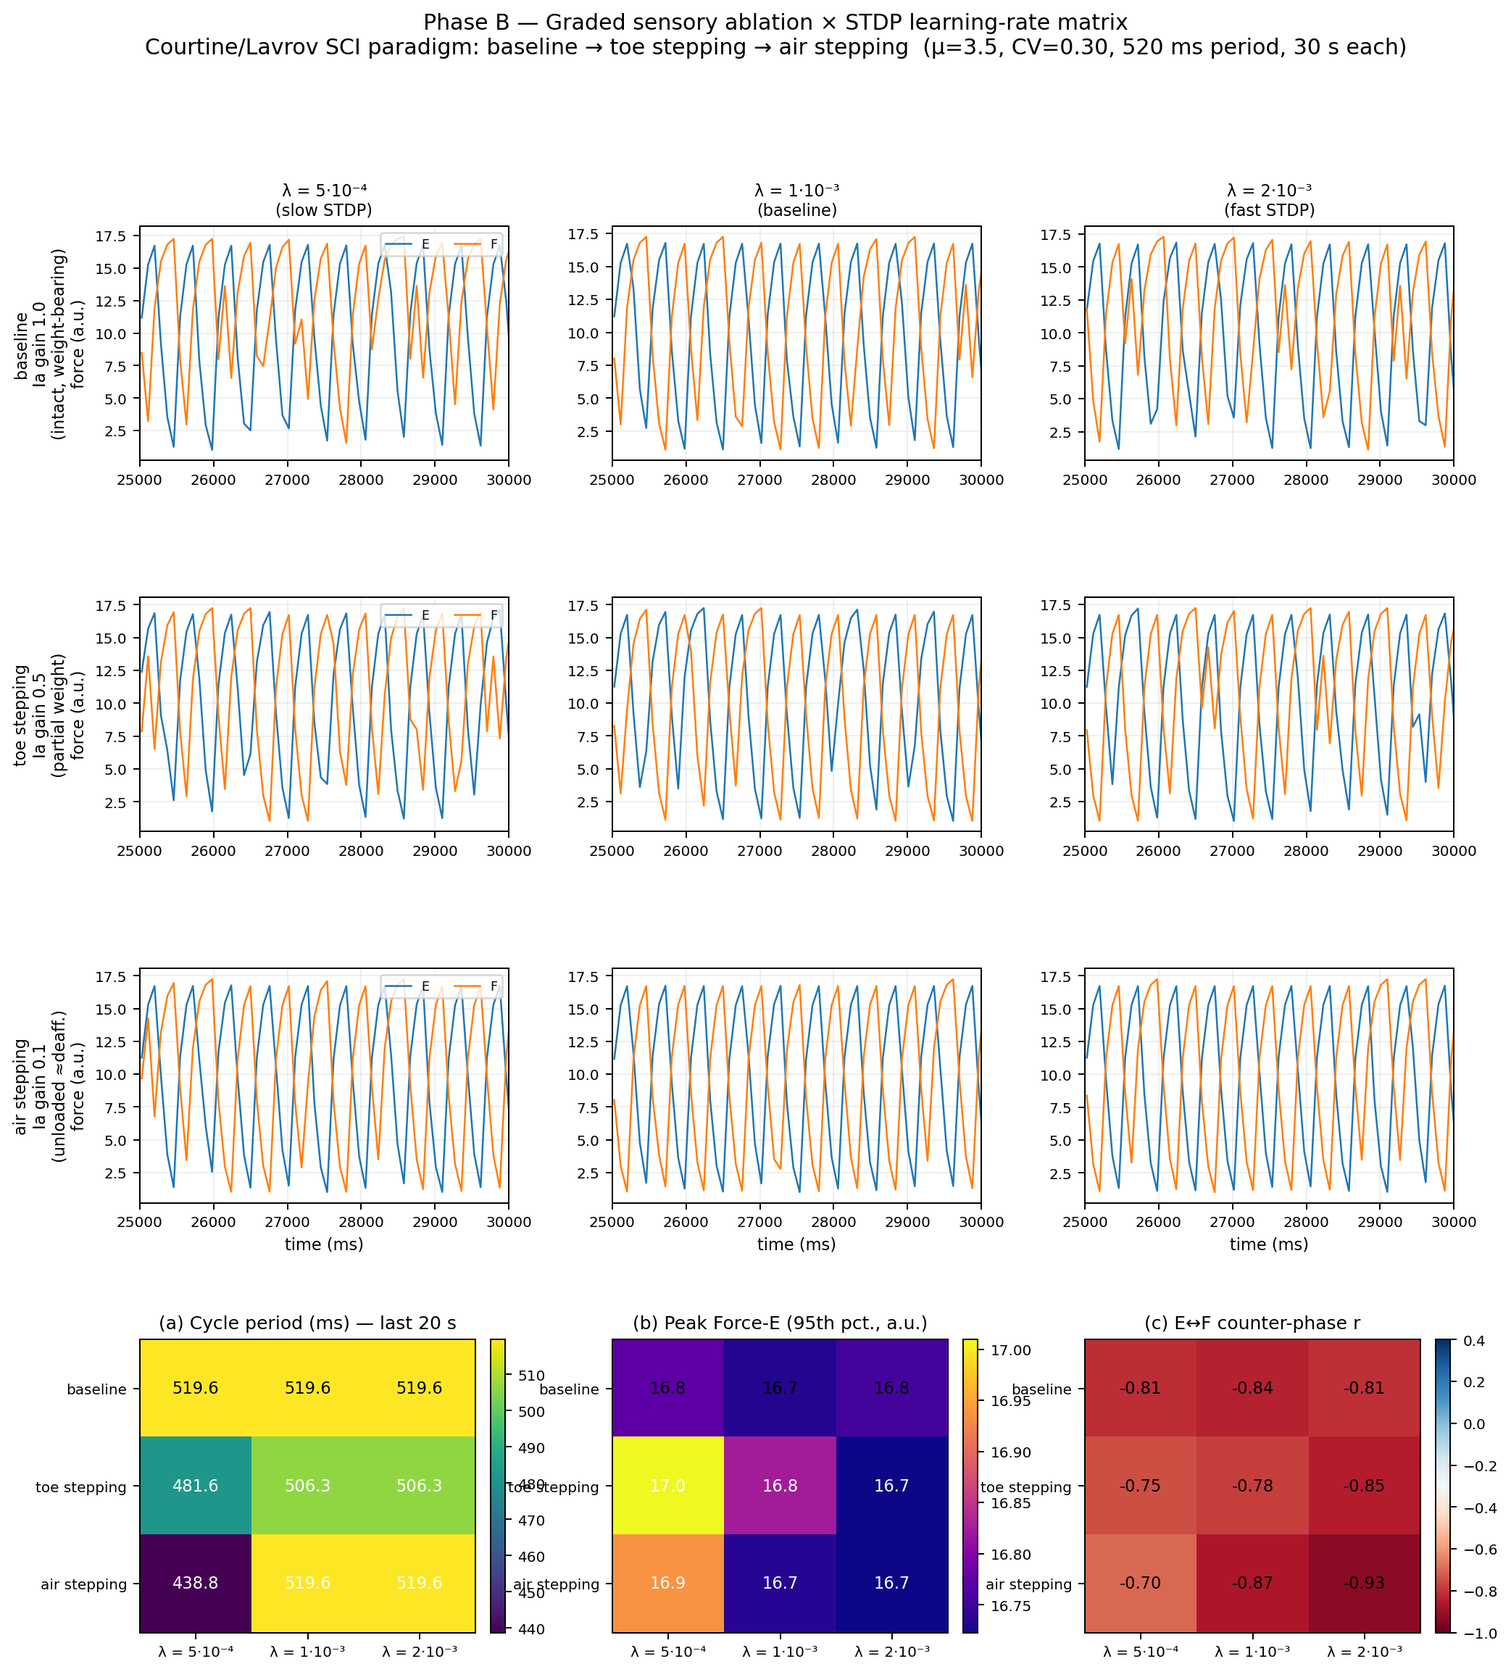
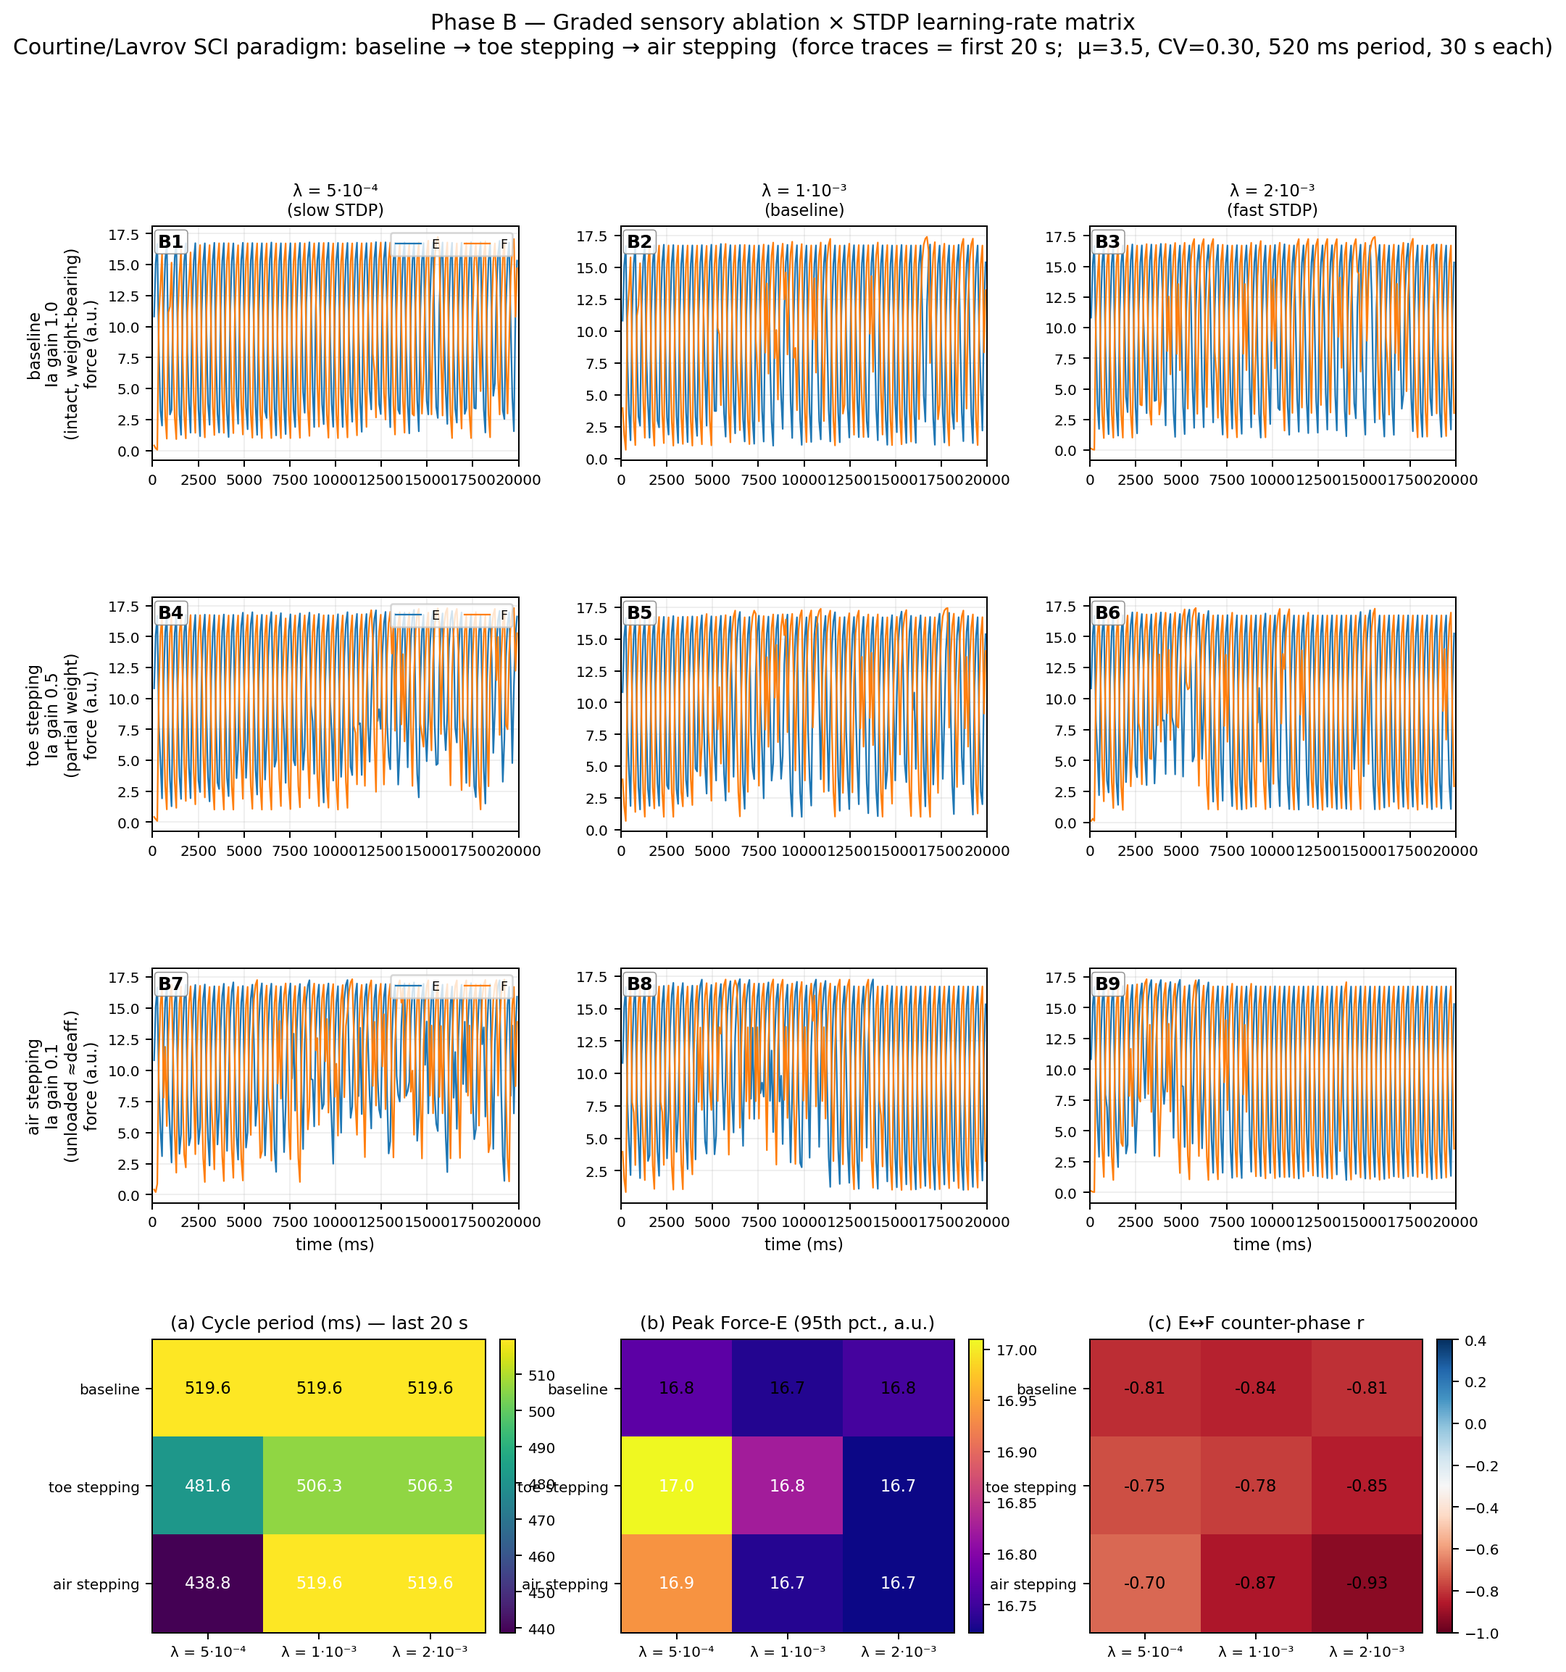
Phase A+B figures: panel indices, first-window default, λ auto-discovery
Addresses the saturation-masks-λ problem: weights converge within ~20 s,
so the previous converged-tail trace windows showed no λ difference.

Both cpg_speed_stdp_figure.py and cpg_ablation_graded_figure.py now:
 - tag each force-trace panel with a panel index (A1..A9 / B1..B9);
 - default to the FIRST window (--trace-window first, --trace-window-ms
   20000) so the STDP-rate-dependent self-organisation is visible;
 - auto-discover the λ tags from filenames and sort ascending by value,
   so the figures adapt to any λ set (3, 4, 5, ... values) without code
   edits. New helpers _lambda_tag_to_value / _lambda_label render
   'lam1em4' -> 1e-4 -> 'λ = 1·10⁻⁴'. Figure width scales with n_cols.

run_speed_stdp.sh: widen Phase A λ from {5e-4, 1e-3, 2e-3} (all saturate
within ~20 s) to the decade span {1e-4, 1e-3, 1e-2}. Slow λ now converges
~75 s (transient visible across the whole 120 s run); baseline ~7 s; fast
~1 s. Header documents the rationale and the bio-plausibility caveat
(1e-2 is above the strict cortical range, probes accelerated learning).

paper/sections/results.tex: fig5 caption updated — Rows 1-3 are now
panels A1-A9 over the first 20 s (self-organisation window).

Figures regenerated from existing data to confirm rendering; they will
be regenerated again after the wider-λ MN5 re-run lands.

diff --git a/cpg_speed_stdp_figure.py b/cpg_speed_stdp_figure.py
@@ -47,13 +47,30 @@ SPEED_LABEL = {
 }
 SPEED_PERIOD_MS = {"06cms": 1200, "13_5cms": 520, "21cms": 350}
 
-LAMBDA_ORDER = ["lam5em4", "lam1em3", "lam2em3"]
-LAMBDA_LABEL = {
-    "lam5em4": "λ = 5·10⁻⁴\n(slow STDP)",
-    "lam1em3": "λ = 1·10⁻³\n(baseline)",
-    "lam2em3": "λ = 2·10⁻³\n(fast STDP)",
-}
-LAMBDA_VAL = {"lam5em4": 5e-4, "lam1em3": 1e-3, "lam2em3": 2e-3}
+# Lambda tags are auto-discovered from filenames (see _resolve_files). The
+# helpers below convert a tag such as "lam1em4" → value 1e-4 and a display
+# label, so the figure adapts to whatever λ set was actually run.
+_SUPERSCRIPT = {"-": "⁻", "0": "⁰", "1": "¹", "2": "²", "3": "³",
+                "4": "⁴", "5": "⁵", "6": "⁶", "7": "⁷", "8": "⁸", "9": "⁹"}
+
+
+def _lambda_tag_to_value(tag: str) -> float:
+    """'lam1em4' → 1e-4 ;  'lam5em4' → 5e-4 ;  'lam2em3' → 2e-3."""
+    m = re.match(r"lam(\d+)em(\d+)", tag)
+    if not m:
+        return float("nan")
+    return float(m.group(1)) * (10.0 ** (-int(m.group(2))))
+
+
+def _lambda_label(tag: str, role: str = "") -> str:
+    """Render 'lam1em4' → 'λ = 1·10⁻⁴\\n(role)'."""
+    m = re.match(r"lam(\d+)em(\d+)", tag)
+    if not m:
+        return tag
+    mant, exp = m.group(1), m.group(2)
+    sup = "".join(_SUPERSCRIPT.get(ch, ch) for ch in f"-{exp}")
+    base = f"λ = {mant}·10{sup}"
+    return f"{base}\n({role})" if role else base
 
 
 def _find_cycle_periods(t_ms: np.ndarray, signal: np.ndarray,
@@ -115,19 +132,27 @@ def _spectral_concentration(t_ms: np.ndarray, signal: np.ndarray,
     return float(psd[band_mask].sum() / total)
 
 
-def _resolve_files(indir: str) -> Dict[Tuple[str, str], str]:
-    """Map (speed_tag, lambda_tag) → file path."""
+def _resolve_files(indir: str):
+    """Discover (speed_tag, lambda_tag) → path, plus the ordered λ tag list.
+
+    The λ tags are read from the filenames and sorted ascending by value, so
+    the figure adapts to whatever λ set was actually run (3, 4, 5, ... values).
+    Returns (files_dict, lambda_order_list).
+    """
     files = sorted(glob.glob(os.path.join(indir, "cpg_speed_stdp_*.h5")))
     out: Dict[Tuple[str, str], str] = {}
     # Match any of the known speed tags (06cms, 13_5cms, 21cms) explicitly.
     # Using "[^_]+" fails for "13_5cms" because of the underscore inside.
     speed_re = "|".join(re.escape(s) for s in SPEED_ORDER)
     rgx = re.compile(rf"cpg_speed_stdp_({speed_re})_(lam\d+em\d+)_")
+    lam_tags = set()
     for f in files:
         m = rgx.search(os.path.basename(f))
         if m:
             out[(m.group(1), m.group(2))] = f
-    return out
+            lam_tags.add(m.group(2))
+    lam_order = sorted(lam_tags, key=_lambda_tag_to_value)
+    return out, lam_order
 
 
 def _load(path: str) -> Dict:
@@ -171,18 +196,45 @@ def main():
     ap.add_argument("--indir", type=str, default="results/2026-06-16")
     ap.add_argument("--outdir", type=str, default="plots/paper")
     ap.add_argument("--out", type=str, default=None)
+    ap.add_argument("--trace-window", choices=["first", "last"], default="first",
+                    help="Show the force traces from the FIRST window (default; "
+                         "reveals the STDP-rate-dependent self-organisation of the "
+                         "gait) or the LAST window (converged steady state).")
+    ap.add_argument("--trace-window-ms", type=float, default=20000.0,
+                    help="Width of the force-trace window in ms (default 20000 = "
+                         "20 s, matching the STDP convergence transient).")
     args = ap.parse_args()
 
     os.makedirs(args.outdir, exist_ok=True)
     out_path = args.out or os.path.join(args.outdir, "fig5_speed_stdp.png")
 
-    files = _resolve_files(args.indir)
+    files, LAMBDA_ORDER = _resolve_files(args.indir)
+    if not LAMBDA_ORDER:
+        raise SystemExit(f"No cpg_speed_stdp_*.h5 files found in {args.indir}")
+
+    # Build display label dict; assign roles by position (slowest=slow STDP,
+    # fastest=fast STDP, the rest baseline/intermediate).
+    LAMBDA_LABEL: Dict[str, str] = {}
+    for i, l in enumerate(LAMBDA_ORDER):
+        if len(LAMBDA_ORDER) == 1:
+            role = ""
+        elif i == 0:
+            role = "slow STDP"
+        elif i == len(LAMBDA_ORDER) - 1:
+            role = "fast STDP"
+        elif _lambda_tag_to_value(l) == 1e-3:
+            role = "baseline"
+        else:
+            role = "intermediate"
+        LAMBDA_LABEL[l] = _lambda_label(l, role)
+    LAMBDA_VAL = {l: _lambda_tag_to_value(l) for l in LAMBDA_ORDER}
+
     missing = [(s, l) for s in SPEED_ORDER for l in LAMBDA_ORDER if (s, l) not in files]
     if missing:
         print(f"[speed_stdp] WARNING: missing cells: {missing}")
-    print(f"[speed_stdp] resolved {len(files)} files in {args.indir}")
+    print(f"[speed_stdp] resolved {len(files)} files; λ tags = {LAMBDA_ORDER}")
 
-    # Pre-load 3×3 matrix
+    # Pre-load matrix
     data: Dict[Tuple[str, str], Dict] = {}
     for s in SPEED_ORDER:
         for l in LAMBDA_ORDER:
@@ -194,15 +246,22 @@ def main():
         "legend.fontsize": 8, "xtick.labelsize": 8, "ytick.labelsize": 8,
     })
 
-    n_rows, n_cols = 3, 3
-    fig = plt.figure(figsize=(13, 18))
+    n_rows, n_cols = len(SPEED_ORDER), len(LAMBDA_ORDER)
+    fig = plt.figure(figsize=(4.3 * n_cols, 18))
     # 5 rows: 3 for traces, 1 for time-domain metric heat-tiles, 1 for STDP
     # convergence trajectories + spectral-concentration heat-tile (addresses
     # Q1: STDP-rate effect is in the *transient*, not the asymptote).
-    gs = fig.add_gridspec(5, 3, height_ratios=[1.0, 1.0, 1.0, 1.25, 1.20],
+    gs = fig.add_gridspec(5, n_cols, height_ratios=[1.0, 1.0, 1.0, 1.25, 1.20],
                           hspace=0.55, wspace=0.28)
 
-    # Rows 1-3: Force traces (last 5 s zoom), rows = speed, cols = lambda
+    # Rows 1-3: Force traces, rows = speed, cols = lambda.
+    # Default window = FIRST 20 s, which is where the STDP-rate-dependent
+    # self-organisation of the gait is visible (weights saturate by ~20 s,
+    # so the converged last-5 s window shows no λ effect).
+    win_ms = float(args.trace_window_ms)
+
+    def _panel_tag(r, c):
+        return f"A{r * n_cols + c + 1}"
     for r, s in enumerate(SPEED_ORDER):
         for c, l in enumerate(LAMBDA_ORDER):
             ax = fig.add_subplot(gs[r, c])
@@ -213,12 +272,20 @@ def main():
                 ax.set_xticks([]); ax.set_yticks([])
                 continue
             d = data[(s, l)]
-            z = max(0.0, d["sim_ms"] - 5000.0)
-            mask = d["t"] >= z
-            ax.plot(d["t"][mask], d["fe"][mask], color="#1f77b4", linewidth=1.0, label="E")
-            ax.plot(d["t"][mask], d["ff"][mask], color="#ff7f0e", linewidth=1.0, label="F")
-            ax.set_xlim(z, d["sim_ms"])
+            if args.trace_window == "first":
+                z0, z1 = 0.0, min(win_ms, d["sim_ms"])
+            else:
+                z0, z1 = max(0.0, d["sim_ms"] - win_ms), d["sim_ms"]
+            mask = (d["t"] >= z0) & (d["t"] <= z1)
+            ax.plot(d["t"][mask], d["fe"][mask], color="#1f77b4", linewidth=0.9, label="E")
+            ax.plot(d["t"][mask], d["ff"][mask], color="#ff7f0e", linewidth=0.9, label="F")
+            ax.set_xlim(z0, z1)
             ax.grid(alpha=0.2)
+            # Panel index tag, top-left corner inside the axes
+            ax.text(0.015, 0.97, _panel_tag(r, c), transform=ax.transAxes,
+                    fontsize=10, fontweight="bold", va="top", ha="left",
+                    bbox=dict(boxstyle="round,pad=0.18", fc="white", ec="grey",
+                              alpha=0.85, lw=0.6))
             # Column headers on row 0
             if r == 0:
                 ax.set_title(LAMBDA_LABEL[l], fontsize=9)
@@ -337,10 +404,12 @@ def main():
                           fontsize=9)
     plt.colorbar(im, ax=ax_f, fraction=0.05, pad=0.04)
 
+    win_desc = (f"first {win_ms/1000:.0f} s" if args.trace_window == "first"
+                else f"last {win_ms/1000:.0f} s")
     fig.suptitle(
         "Phase A — Speed × STDP learning-rate matrix\n"
-        "Self-organisation across rat locomotor range and bio-plausible λ"
-        "  (μ=3.5, CV=0.30, 120 s each)",
+        f"Self-organisation across rat locomotor range and bio-plausible λ "
+        f"(force traces = {win_desc};  μ=3.5, CV=0.30, 120 s each)",
         fontsize=12, y=0.997,
     )
     fig.savefig(out_path, dpi=180, bbox_inches="tight")

diff --git a/cpg_ablation_graded_figure.py b/cpg_ablation_graded_figure.py
@@ -47,13 +47,29 @@ GAIN_LABEL = {
 }
 GAIN_VAL = {"baseline": 1.0, "toe": 0.5, "air": 0.1}
 
-LAMBDA_ORDER = ["lam5em4", "lam1em3", "lam2em3"]
-LAMBDA_LABEL = {
-    "lam5em4": "λ = 5·10⁻⁴\n(slow STDP)",
-    "lam1em3": "λ = 1·10⁻³\n(baseline)",
-    "lam2em3": "λ = 2·10⁻³\n(fast STDP)",
-}
-LAMBDA_VAL = {"lam5em4": 5e-4, "lam1em3": 1e-3, "lam2em3": 2e-3}
+# Lambda tags are auto-discovered from filenames (see _resolve_files) so the
+# figure adapts to whatever λ set was actually run.
+_SUPERSCRIPT = {"-": "⁻", "0": "⁰", "1": "¹", "2": "²", "3": "³",
+                "4": "⁴", "5": "⁵", "6": "⁶", "7": "⁷", "8": "⁸", "9": "⁹"}
+
+
+def _lambda_tag_to_value(tag: str) -> float:
+    """'lam1em4' → 1e-4 ;  'lam5em4' → 5e-4 ;  'lam2em3' → 2e-3."""
+    m = re.match(r"lam(\d+)em(\d+)", tag)
+    if not m:
+        return float("nan")
+    return float(m.group(1)) * (10.0 ** (-int(m.group(2))))
+
+
+def _lambda_label(tag: str, role: str = "") -> str:
+    """Render 'lam1em4' → 'λ = 1·10⁻⁴\\n(role)'."""
+    m = re.match(r"lam(\d+)em(\d+)", tag)
+    if not m:
+        return tag
+    mant, exp = m.group(1), m.group(2)
+    sup = "".join(_SUPERSCRIPT.get(ch, ch) for ch in f"-{exp}")
+    base = f"λ = {mant}·10{sup}"
+    return f"{base}\n({role})" if role else base
 
 
 def _find_cycle_periods(t_ms: np.ndarray, signal: np.ndarray,
@@ -84,18 +100,22 @@ def _safe_corr(a: np.ndarray, b: np.ndarray) -> float:
     return float(np.dot(a, b) / d) if d > 1e-12 else np.nan
 
 
-def _resolve_files(indir: str) -> Dict[Tuple[str, str], str]:
-    """Map (gain_tag, lambda_tag) → file path.
+def _resolve_files(indir: str):
+    """Discover (gain_tag, lambda_tag) → path, plus ordered λ tag list.
     Files are named: cpg_ablgrad_<gain>_<lambda>_idx00_*.h5
+    Returns (files_dict, lambda_order_list) with λ sorted ascending by value.
     """
     files = sorted(glob.glob(os.path.join(indir, "cpg_ablgrad_*.h5")))
     out: Dict[Tuple[str, str], str] = {}
     rgx = re.compile(r"cpg_ablgrad_(baseline|toe|air)_(lam\d+em\d+)_")
+    lam_tags = set()
     for f in files:
         m = rgx.search(os.path.basename(f))
         if m:
             out[(m.group(1), m.group(2))] = f
-    return out
+            lam_tags.add(m.group(2))
+    lam_order = sorted(lam_tags, key=_lambda_tag_to_value)
+    return out, lam_order
 
 
 def _load(path: str) -> Dict:
@@ -127,16 +147,42 @@ def main():
     ap.add_argument("--indir", type=str, default="results/2026-06-16")
     ap.add_argument("--outdir", type=str, default="plots/paper")
     ap.add_argument("--out", type=str, default=None)
+    ap.add_argument("--trace-window", choices=["first", "last"], default="first",
+                    help="Show force traces from the FIRST window (default; reveals "
+                         "STDP-rate-dependent self-organisation) or the LAST window "
+                         "(converged steady state).")
+    ap.add_argument("--trace-window-ms", type=float, default=20000.0,
+                    help="Width of the force-trace window in ms (default 20000 = 20 s; "
+                         "the runs are 30 s, so this covers the convergence transient).")
     args = ap.parse_args()
 
     os.makedirs(args.outdir, exist_ok=True)
     out_path = args.out or os.path.join(args.outdir, "fig6_ablation_graded.png")
 
-    files = _resolve_files(args.indir)
+    files, LAMBDA_ORDER = _resolve_files(args.indir)
+    if not LAMBDA_ORDER:
+        raise SystemExit(f"No cpg_ablgrad_*.h5 files found in {args.indir}")
+
+    # Build display label dict; assign roles by position (slowest=slow, fastest=fast).
+    LAMBDA_LABEL: Dict[str, str] = {}
+    for i, l in enumerate(LAMBDA_ORDER):
+        if len(LAMBDA_ORDER) == 1:
+            role = ""
+        elif i == 0:
+            role = "slow STDP"
+        elif i == len(LAMBDA_ORDER) - 1:
+            role = "fast STDP"
+        elif _lambda_tag_to_value(l) == 1e-3:
+            role = "baseline"
+        else:
+            role = "intermediate"
+        LAMBDA_LABEL[l] = _lambda_label(l, role)
+    LAMBDA_VAL = {l: _lambda_tag_to_value(l) for l in LAMBDA_ORDER}
+
     missing = [(g, l) for g in GAIN_ORDER for l in LAMBDA_ORDER if (g, l) not in files]
     if missing:
         print(f"[ablgrad] WARNING: missing cells: {missing}")
-    print(f"[ablgrad] resolved {len(files)} files in {args.indir}")
+    print(f"[ablgrad] resolved {len(files)} files; λ tags = {LAMBDA_ORDER}")
 
     data: Dict[Tuple[str, str], Dict] = {}
     for g in GAIN_ORDER:
@@ -149,12 +195,19 @@ def main():
         "legend.fontsize": 8, "xtick.labelsize": 8, "ytick.labelsize": 8,
     })
 
-    n_rows, n_cols = 3, 3
-    fig = plt.figure(figsize=(13, 14))
-    gs = fig.add_gridspec(4, 3, height_ratios=[1.0, 1.0, 1.0, 1.25],
+    n_rows, n_cols = len(GAIN_ORDER), len(LAMBDA_ORDER)
+    fig = plt.figure(figsize=(4.3 * n_cols, 14))
+    gs = fig.add_gridspec(4, n_cols, height_ratios=[1.0, 1.0, 1.0, 1.25],
                           hspace=0.55, wspace=0.28)
 
-    # Rows 1-3: Force traces (last 5 s zoom), rows = gain, cols = lambda
+    # Rows 1-3: Force traces, rows = gain, cols = lambda.
+    # Default window = FIRST 20 s, where the STDP-rate-dependent
+    # self-organisation of the gait is visible (weights saturate quickly,
+    # so a converged-tail window shows no λ effect).
+    win_ms = float(args.trace_window_ms)
+
+    def _panel_tag(r, c):
+        return f"B{r * n_cols + c + 1}"
     for r, g in enumerate(GAIN_ORDER):
         for c, l in enumerate(LAMBDA_ORDER):
             ax = fig.add_subplot(gs[r, c])
@@ -165,12 +218,19 @@ def main():
                 ax.set_xticks([]); ax.set_yticks([])
                 continue
             d = data[(g, l)]
-            z = max(0.0, d["sim_ms"] - 5000.0)
-            mask = d["t"] >= z
-            ax.plot(d["t"][mask], d["fe"][mask], color="#1f77b4", linewidth=1.0, label="E")
-            ax.plot(d["t"][mask], d["ff"][mask], color="#ff7f0e", linewidth=1.0, label="F")
-            ax.set_xlim(z, d["sim_ms"])
+            if args.trace_window == "first":
+                z0, z1 = 0.0, min(win_ms, d["sim_ms"])
+            else:
+                z0, z1 = max(0.0, d["sim_ms"] - win_ms), d["sim_ms"]
+            mask = (d["t"] >= z0) & (d["t"] <= z1)
+            ax.plot(d["t"][mask], d["fe"][mask], color="#1f77b4", linewidth=0.9, label="E")
+            ax.plot(d["t"][mask], d["ff"][mask], color="#ff7f0e", linewidth=0.9, label="F")
+            ax.set_xlim(z0, z1)
             ax.grid(alpha=0.2)
+            ax.text(0.015, 0.97, _panel_tag(r, c), transform=ax.transAxes,
+                    fontsize=10, fontweight="bold", va="top", ha="left",
+                    bbox=dict(boxstyle="round,pad=0.18", fc="white", ec="grey",
+                              alpha=0.85, lw=0.6))
             if r == 0:
                 ax.set_title(LAMBDA_LABEL[l], fontsize=9)
             if c == 0:
@@ -216,10 +276,12 @@ def main():
                             fontsize=9)
         plt.colorbar(im, ax=ax, fraction=0.05, pad=0.04)
 
+    win_desc = (f"first {win_ms/1000:.0f} s" if args.trace_window == "first"
+                else f"last {win_ms/1000:.0f} s")
     fig.suptitle(
         "Phase B — Graded sensory ablation × STDP learning-rate matrix\n"
         "Courtine/Lavrov SCI paradigm: baseline → toe stepping → air stepping"
-        "  (μ=3.5, CV=0.30, 520 ms period, 30 s each)",
+        f"  (force traces = {win_desc};  μ=3.5, CV=0.30, 520 ms period, 30 s each)",
         fontsize=12, y=0.997,
     )
     fig.savefig(out_path, dpi=180, bbox_inches="tight")

diff --git a/paper/sections/results.tex b/paper/sections/results.tex
@@ -138,9 +138,10 @@ $[-0.90, -0.77]$ across the full $3 \times 3$ matrix
     Columns = STDP learning rate $\lambda$ (slow / baseline / fast,
     spanning the cortical bio-plausible
     range~\cite{biPoo1998,morrison2007}).
-    \textbf{Rows 1--3:} Force-E (blue) and Force-F (orange) leg L, last
-    5\,s of each 120\,s simulation. Counter-phase alternation is
-    preserved across the entire matrix.
+    \textbf{Rows 1--3 (panels A1--A9):} Force-E (blue) and Force-F
+    (orange) leg L, \emph{first} 20\,s of each 120\,s simulation --- the
+    window during which the gait self-organises and the STDP-rate effect
+    is visible (the converged steady state is identical across $\lambda$).
     \textbf{Row 4:} Time-domain summary heat-tiles: (a) measured cycle
     period (ms) versus commanded; (b) peak Force-E (95th percentile,
     a.u.); (c) E$\leftrightarrow$F counter-phase Pearson correlation.
